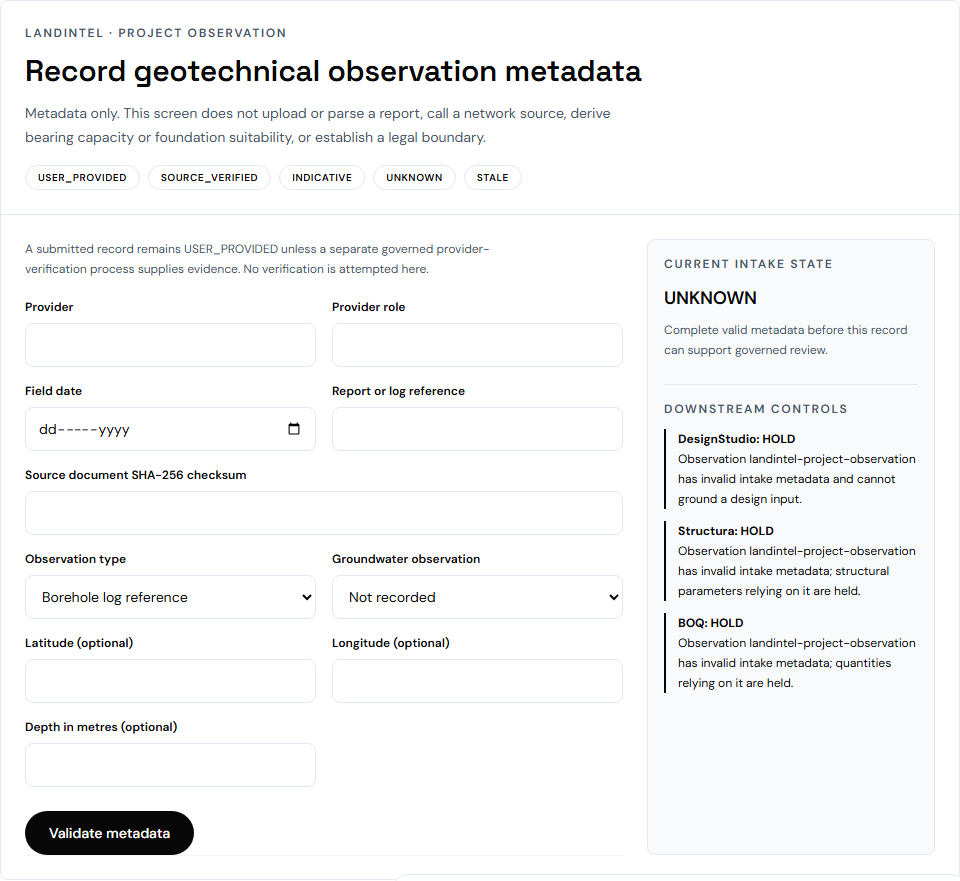
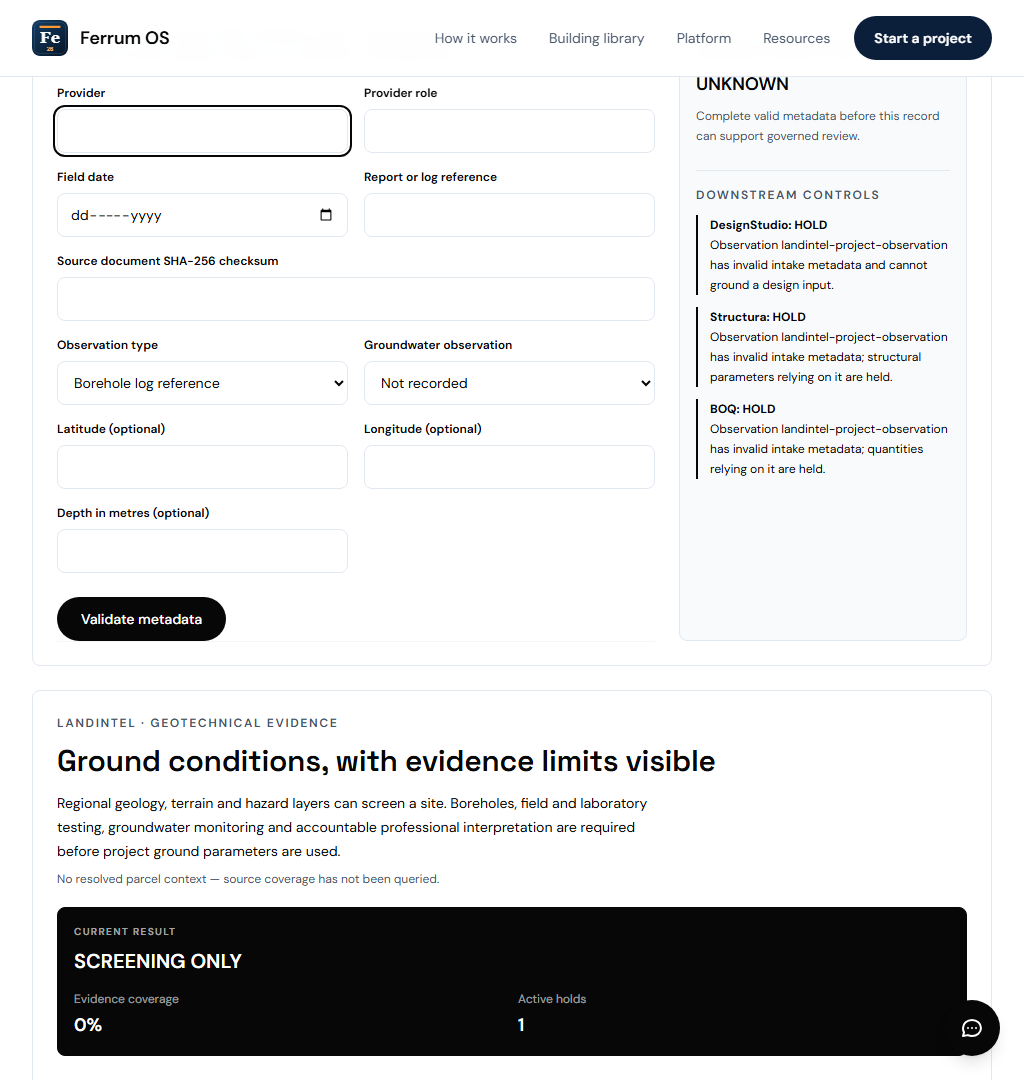
fix: keep geotech intake clear of overlays [AI: MASON]

diff --git a/apps/web/components/landintel/GeotechObservationIntake.tsx b/apps/web/components/landintel/GeotechObservationIntake.tsx
@@ -88,7 +88,7 @@ export default function GeotechObservationIntake({ clock = () => new Date() }: {
     <div className="grid min-w-0 gap-6 p-5 sm:p-6 lg:grid-cols-[minmax(0,1.35fr)_minmax(16rem,0.65fr)]">
       <form noValidate onSubmit={submit} className="min-w-0" aria-describedby="geotech-observation-boundary">
         <p id="geotech-observation-boundary" className="mb-5 text-xs leading-5 text-relume-muted">A submitted record remains USER_PROVIDED unless a separate governed provider-verification process supplies evidence. No verification is attempted here.</p>
-        {submitted && errors.length > 0 && <div ref={errorSummary} tabIndex={-1} role="alert" className="mb-5 rounded-relume border border-relume-ink bg-relume-surface-secondary p-4" data-geotech-error-summary><h3 className="text-sm font-semibold text-relume-ink">Correct {errors.length} metadata issue{errors.length === 1 ? '' : 's'}</h3><ul className="mt-2 list-disc space-y-1 pl-5 text-xs leading-5 text-relume-ink">{errors.map((error, index) => <li key={`${error.field}-${index}`}>{error.message}</li>)}</ul></div>}
+        {submitted && errors.length > 0 && <div ref={errorSummary} tabIndex={-1} role="alert" className="mb-5 scroll-mt-24 rounded-relume border border-relume-ink bg-relume-surface-secondary p-4" data-geotech-error-summary><h3 className="text-sm font-semibold text-relume-ink">Correct {errors.length} metadata issue{errors.length === 1 ? '' : 's'}</h3><ul className="mt-2 list-disc space-y-1 pl-5 text-xs leading-5 text-relume-ink">{errors.map((error, index) => <li key={`${error.field}-${index}`}>{error.message}</li>)}</ul></div>}
         <div className="grid gap-4 sm:grid-cols-2">
           <Field label="Provider" id="geotech-provider" value={form.providerName} onChange={value => set('providerName', value)} invalid={invalid('provider.name')} error="Enter the report or observation provider." />
           <Field label="Provider role" id="geotech-provider-role" value={form.providerRole} onChange={value => set('providerRole', value)} invalid={invalid('provider.role')} error="Enter the provider role." />
@@ -101,7 +101,7 @@ export default function GeotechObservationIntake({ clock = () => new Date() }: {
           <Field label="Longitude (optional)" id="geotech-longitude" inputMode="decimal" value={form.longitude} onChange={value => set('longitude', value)} invalid={invalid('coordinate.longitude')} error="Longitude must be between -180 and 180." />
           <Field label="Depth in metres (optional)" id="geotech-depth" inputMode="decimal" value={form.depthMetres} onChange={value => set('depthMetres', value)} invalid={invalid('coordinate.depthMetres')} error="Depth cannot be negative." />
         </div>
-        <button type="submit" className="mt-6 min-h-11 rounded-full bg-relume-ink px-6 py-3 text-sm font-medium text-white hover:opacity-90 focus-visible:outline focus-visible:outline-2 focus-visible:outline-offset-2 focus-visible:outline-relume-ink">Validate metadata</button>
+        <button type="submit" className="mt-6 min-h-11 scroll-mt-24 rounded-full bg-relume-ink px-6 py-3 text-sm font-medium text-white hover:opacity-90 focus-visible:outline focus-visible:outline-2 focus-visible:outline-offset-2 focus-visible:outline-relume-ink">Validate metadata</button>
       </form>
       <aside className="min-w-0 rounded-relume border border-relume-border bg-relume-surface-secondary p-4" aria-label="Observation state and downstream holds">
         <p className="text-xs font-semibold uppercase tracking-[0.14em] text-relume-muted">Current intake state</p>
@@ -114,9 +114,9 @@ export default function GeotechObservationIntake({ clock = () => new Date() }: {
 }
 
 function Field({ label, id, type = 'text', inputMode, value, onChange, invalid, error }: { label: string; id: string; type?: string; inputMode?: React.HTMLAttributes<HTMLInputElement>['inputMode']; value: string; onChange: (value: string) => void; invalid: boolean; error: string }) {
-  return <div className="min-w-0"><label htmlFor={id} className="block text-xs font-semibold text-relume-ink">{label}</label><input id={id} type={type} inputMode={inputMode} value={value} onChange={event => onChange(event.target.value)} aria-invalid={invalid || undefined} aria-describedby={invalid ? `${id}-error` : undefined} className="mt-2 min-h-11 w-full min-w-0 rounded-relume border border-relume-border bg-relume-surface px-3 text-sm text-relume-ink focus-visible:outline focus-visible:outline-2 focus-visible:outline-offset-2 focus-visible:outline-relume-ink" />{invalid && <p id={`${id}-error`} role="alert" className="mt-1 text-xs leading-5 text-relume-ink">{error}</p>}</div>
+  return <div className="min-w-0"><label htmlFor={id} className="block text-xs font-semibold text-relume-ink">{label}</label><input id={id} type={type} inputMode={inputMode} value={value} onChange={event => onChange(event.target.value)} aria-invalid={invalid || undefined} aria-describedby={invalid ? `${id}-error` : undefined} className="mt-2 min-h-11 w-full min-w-0 scroll-mt-24 rounded-relume border border-relume-border bg-relume-surface px-3 text-sm text-relume-ink focus-visible:outline focus-visible:outline-2 focus-visible:outline-offset-2 focus-visible:outline-relume-ink" />{invalid && <p id={`${id}-error`} role="alert" className="mt-1 text-xs leading-5 text-relume-ink">{error}</p>}</div>
 }
 
 function Select({ label, id, value, onChange, options }: { label: string; id: string; value: string; onChange: (value: string) => void; options: [string, string][] }) {
-  return <div className="min-w-0"><label htmlFor={id} className="block text-xs font-semibold text-relume-ink">{label}</label><select id={id} value={value} onChange={event => onChange(event.target.value)} className="mt-2 min-h-11 w-full min-w-0 rounded-relume border border-relume-border bg-relume-surface px-3 text-sm text-relume-ink focus-visible:outline focus-visible:outline-2 focus-visible:outline-offset-2 focus-visible:outline-relume-ink">{options.map(([optionValue, optionLabel]) => <option key={optionValue} value={optionValue}>{optionLabel}</option>)}</select></div>
+  return <div className="min-w-0"><label htmlFor={id} className="block text-xs font-semibold text-relume-ink">{label}</label><select id={id} value={value} onChange={event => onChange(event.target.value)} className="mt-2 min-h-11 w-full min-w-0 scroll-mt-24 rounded-relume border border-relume-border bg-relume-surface px-3 text-sm text-relume-ink focus-visible:outline focus-visible:outline-2 focus-visible:outline-offset-2 focus-visible:outline-relume-ink">{options.map(([optionValue, optionLabel]) => <option key={optionValue} value={optionValue}>{optionLabel}</option>)}</select></div>
 }

diff --git a/apps/web/components/landintel/GeotechObservationIntake.test.tsx b/apps/web/components/landintel/GeotechObservationIntake.test.tsx
@@ -22,6 +22,15 @@ describe('GeotechObservationIntake', () => {
     expect(screen.getByText(/BOQ: HOLD/)).toBeTruthy()
   })
 
+  it('reserves scroll clearance for focused intake controls and the error summary', () => {
+    const { container } = render(<GeotechObservationIntake />)
+    for (const control of Array.from(container.querySelectorAll('input, select, button[type="submit"]'))) {
+      expect(control.className).toContain('scroll-mt-24')
+    }
+    fireEvent.click(screen.getByRole('button', { name: 'Validate metadata' }))
+    expect(container.querySelector('[data-geotech-error-summary]')?.className).toContain('scroll-mt-24')
+  })
+
   it('classifies complete unverified metadata as USER_PROVIDED without claiming release', () => {
     const { container } = render(<GeotechObservationIntake />)
     fireEvent.change(screen.getByLabelText('Provider'), { target: { value: 'Field lab' } })
